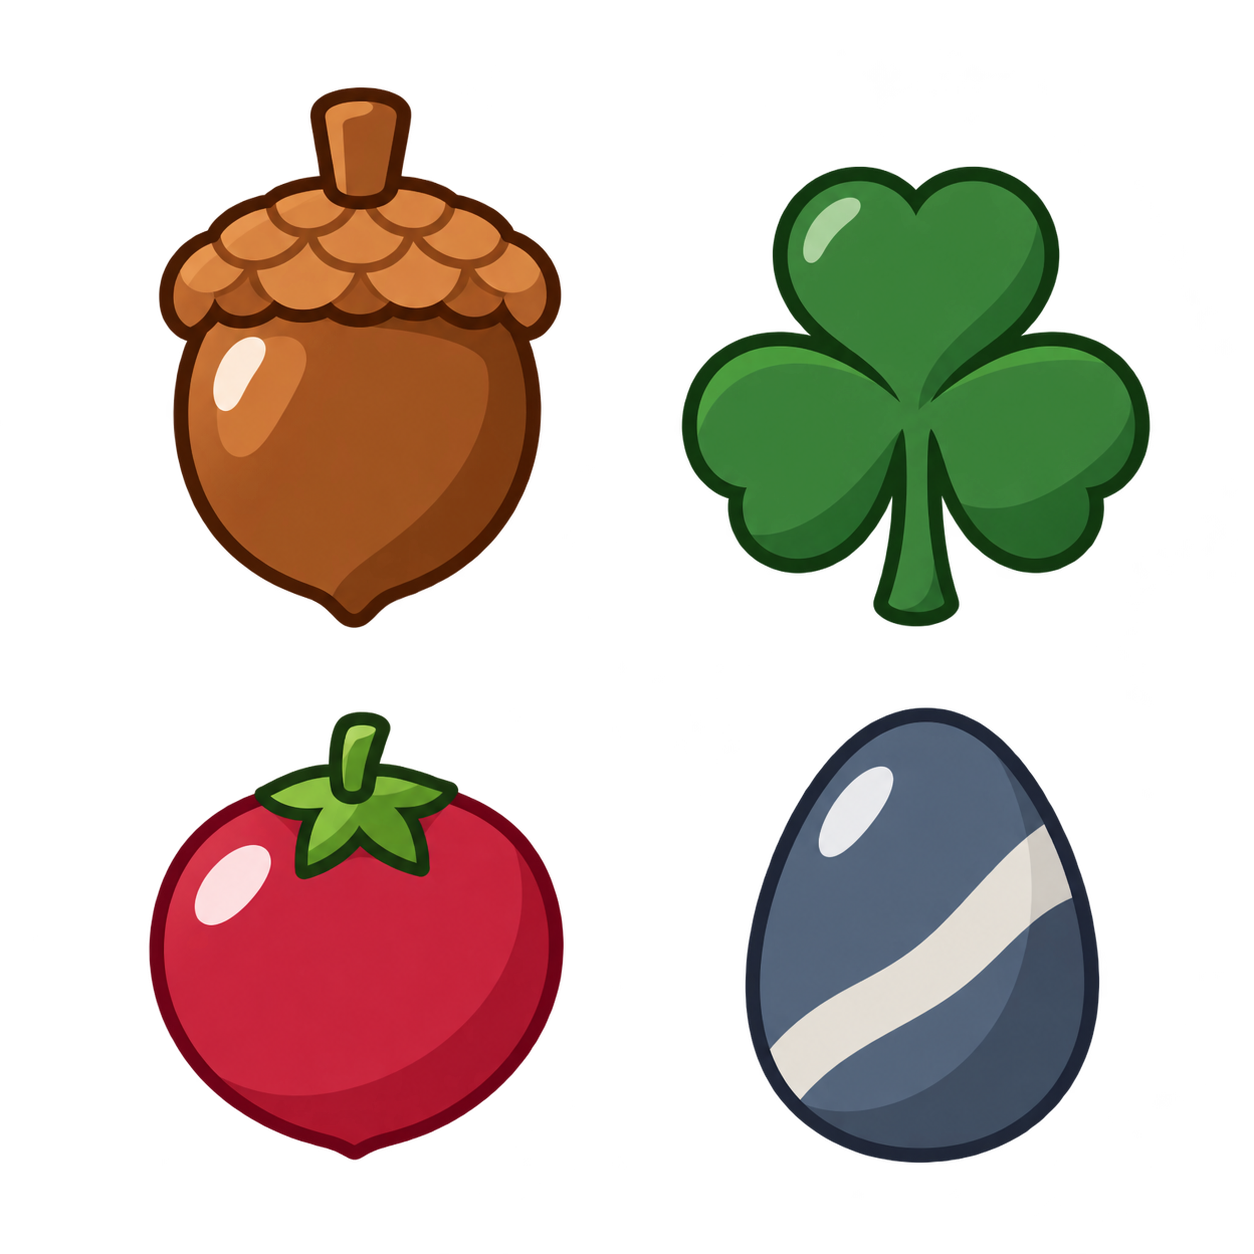
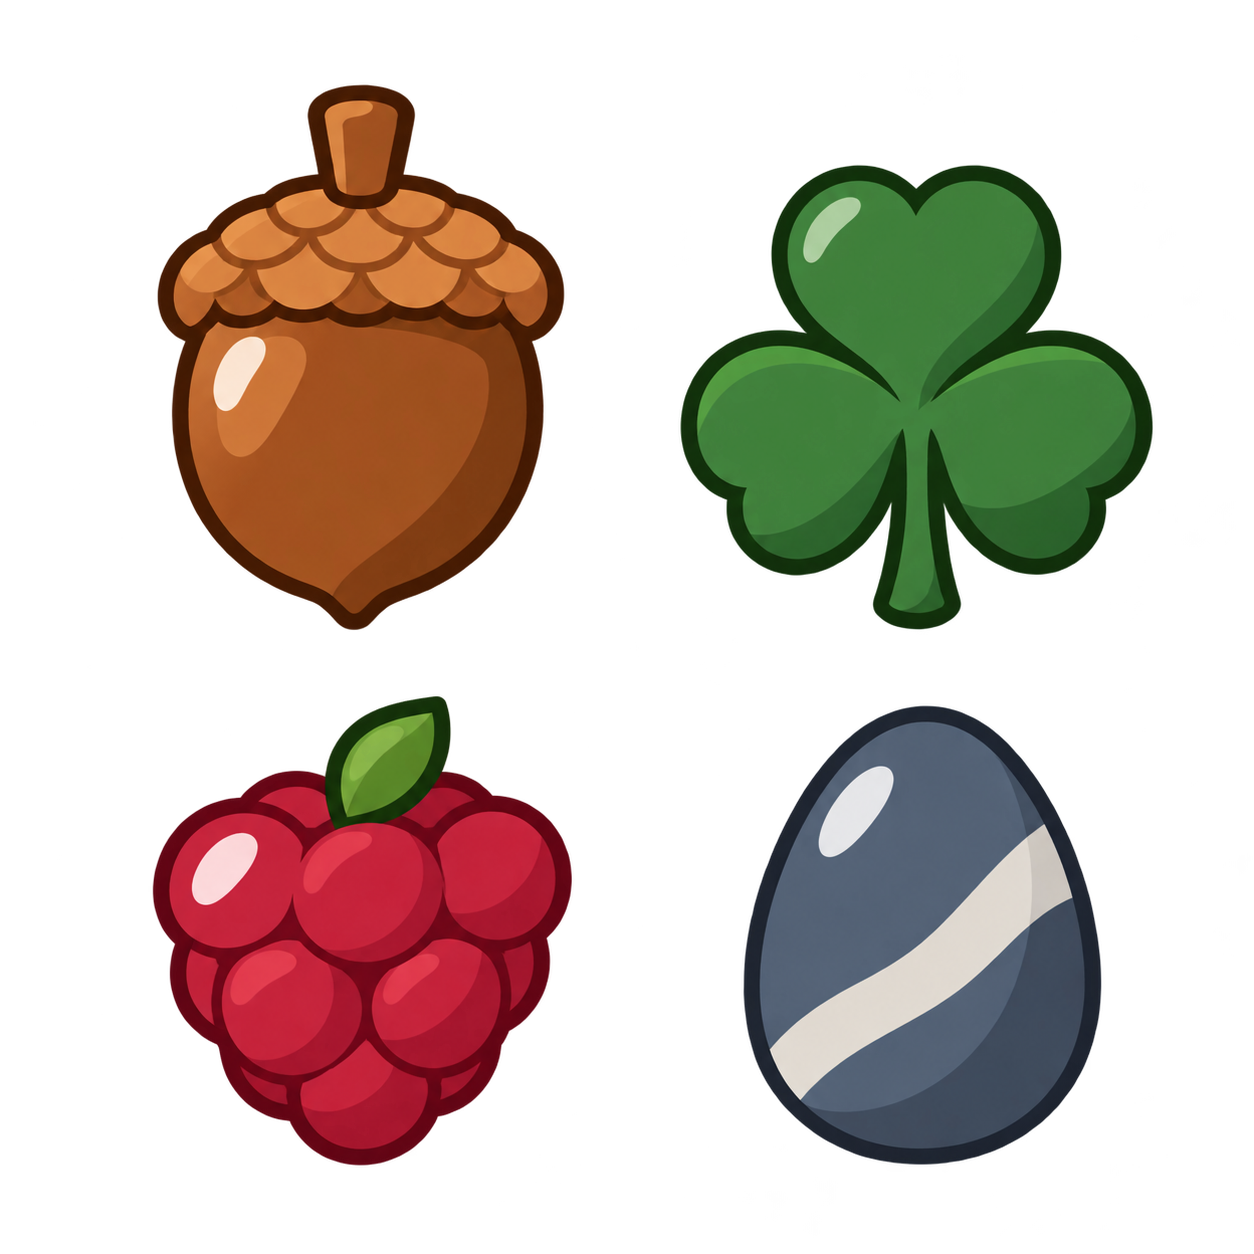
Make Acorn Hand's berry pip read as a raspberry

diff --git a/lib/acorn-hand-crops.ts b/lib/acorn-hand-crops.ts
@@ -3,7 +3,7 @@ export const ACORN_CROPS: Record<string, ([number, number, number, number] | nul
   "vouchers": [[29, 132, 317, 241], [381, 130, 318, 242], [734, 131, 316, 241], [1081, 131, 321, 241], [1432, 131, 317, 241], [29, 509, 317, 238], [382, 507, 317, 239], [734, 506, 315, 240], [1083, 505, 318, 241], [1431, 505, 318, 241]],
   "packs": [[174, 88, 228, 304], [578, 87, 228, 305], [966, 87, 227, 305], [1373, 87, 230, 305], [170, 472, 239, 334], [575, 472, 236, 334], [964, 472, 235, 334], [1368, 472, 237, 334]],
   "items": [[74, 160, 147, 177], [340, 159, 162, 183], [614, 191, 194, 151], [904, 180, 175, 149], [1201, 149, 154, 190], [1476, 150, 152, 189], [1754, 147, 152, 189], [63, 484, 161, 198], [339, 483, 182, 206], [599, 514, 230, 166], [913, 487, 168, 206], [1185, 500, 180, 170], [1458, 521, 177, 156], [1725, 498, 224, 187]],
-  "suits": [[86, 83, 549, 549], [642, 122, 549, 549], [82, 662, 549, 549], [648, 660, 549, 549]],
+  "suits": [[84, 80, 554, 554], [640, 120, 554, 554], [85, 654, 554, 554], [646, 658, 554, 554]],
   "court": [[156, 123, 477, 527], [861, 132, 466, 517], [1559, 135, 493, 515]],
   "charms-0": [[128, 161, 301, 291], [608, 164, 303, 288], [1085, 163, 301, 289], [128, 587, 329, 288], [608, 587, 324, 288], [1086, 588, 307, 287]],
   "charms-1": [[123, 147, 295, 270], [609, 151, 294, 270], [1103, 148, 294, 270], [116, 611, 330, 274], [612, 612, 312, 273], [1090, 611, 302, 272]],

diff --git a/lib/acorn-hand-paint.ts b/lib/acorn-hand-paint.ts
@@ -15,7 +15,8 @@ export function loadAcornPainting(key: string) {
   const image = new Image();
   image.onload = () => { images.set(key, image); revision++; listeners.forEach((fn) => fn()); };
   image.onerror = () => { failed.add(key); revision++; listeners.forEach((fn) => fn()); };
-  image.src = `/art/acorn-hand/${key}.png?v=suits-poses-2`;
+  const version = key === 'suits' ? 'berry-pip-3' : 'suits-poses-2';
+  image.src = `/art/acorn-hand/${key}.png?v=${version}`;
 }
 /** CSS that shows one painted cell as an element's background, stretched to the element, or null until the sheet has loaded. */
 export function acornSprite(key: string, cell: number): { backgroundImage: string; backgroundSize: string; backgroundPosition: string; backgroundRepeat: string } | null {

diff --git a/docs/acorn-hand-suit-prompts.md b/docs/acorn-hand-suit-prompts.md
@@ -38,10 +38,10 @@ The suits on a printed card deck (spade, heart, club, diamond) work because each
 | --- | --- | --- | --- |
 | Top left | Acorn | `#7a4a1e` | Tall, round-bottomed nut with a wide, scalloped cap and a short straight stalk pointing straight up. Mirror-symmetric. |
 | Top right | Clover | `#2f7a33` | Three heart-shaped leaves meeting in the centre (top, lower left, lower right) and a short, thick stem straight down, like a playing-card club. Mirror-symmetric. |
-| Bottom left | Berry | `#b42840` | One plump round berry, slightly heart-shaped at the top, with a small star-shaped leafy cap and a short stalk on top. Mirror-symmetric. One berry, not a cluster. |
+| Bottom left | Berry | `#b42840` | One compact raspberry with a rounded triangular silhouette, seven or eight broad rounded lobes and one small leaf. No smooth tomato globe or star-shaped leafy crown. |
 | Bottom right | Pebble | `#4d5d72` | A smooth, upright egg-shaped stone (taller than wide, about 5 : 6), with one pale band running diagonally across it and a gleam at upper left. |
 
-The four silhouettes must be different enough to tell apart in **greyscale** at 20 px: a tall nut with a cap, a three-lobed club, a round fruit with a star on top and a plain egg.
+The four silhouettes must be different enough to tell apart in **greyscale** at 20 px: a tall nut with a cap, a three-lobed club, a scalloped raspberry and a plain egg.
 
 ### How to use this
 
@@ -65,10 +65,10 @@ The four silhouettes must be different enough to tell apart in **greyscale** at 
 > **Cells, left to right, top row then bottom row:**
 > 1. **Acorn**, warm brown `#7a4a1e` (nut a little lighter, cap a little darker): a tall nut with a rounded bottom ending in a small point, under a wide cap with a scalloped lower edge and three or four simple rows of bumps, and a short, straight, thick stalk pointing straight up. Mirror-symmetric left to right. No curl.
 > 2. **Clover**, moss green `#2f7a33`: three plump heart-shaped leaves meeting in the centre, one up, one lower left, one lower right, with a short, thick stem going straight down, shaped like a playing-card club. Mirror-symmetric. No veins.
-> 3. **Berry**, berry red `#b42840`: ONE plump, round berry, slightly heart-shaped at the top, with a small five-pointed green leafy cap and a tiny stalk on top, and one round white gleam at upper left. Mirror-symmetric. Not a cluster, not a cherry pair, not a strawberry.
+> 3. **Berry**, berry red `#b42840`: ONE compact raspberry, broad rounded shoulders and a slightly narrower rounded bottom. Use only seven or eight LARGE plump rounded lobes, a scalloped outline, one small green leaf and minimal upper-left highlights. The lobes form one aggregate fruit, not a bunch of separate berries. No large leafy star crown, thick green stalk, smooth tomato shape, tiny seeds or speckle.
 > 4. **Pebble**, slate blue-grey `#4d5d72`: a smooth upright egg-shaped river stone, taller than it is wide (about 5 wide to 6 tall), with one soft pale band running diagonally across it from lower left to upper right and a gleam at upper left. No speckle.
 >
-> The four pips must be easy to tell apart even in greyscale at 20 pixels: a nut with a cap, a three-lobed club, a round fruit with a star on top, a plain egg.
+> The four pips must be easy to tell apart even in greyscale at 20 pixels: a nut with a cap, a three-lobed club, a scalloped raspberry, a plain egg.
 
 ### Fix-up prompt
 
@@ -81,7 +81,7 @@ The four silhouettes must be different enough to tell apart in **greyscale** at 
 - [ ] **The squint test:** shrink the image so each pip is about 20 px wide (the sheet about 60 px). Each suit is still instantly recognisable, with no muddy edges.
 - [ ] **The greyscale test:** desaturate it; the four are still easy to tell apart by shape alone.
 - [ ] All four fill about the same area and sit centred in their cells; none is visibly smaller, flatter or off to one side.
-- [ ] Acorn and clover are mirror-symmetric with straight stems (acorn's up, clover's down). The berry is a single berry. The pebble is taller than wide.
+- [ ] Acorn and clover are mirror-symmetric with straight stems (acorn's up, clover's down). The berry is one raspberry with broad rounded lobes and a small leaf. The pebble is taller than wide.
 - [ ] Colours sit close to the inks: `#7a4a1e`, `#2f7a33`, `#b42840`, `#4d5d72`. Acorn brown, not orange; berry red, not pink.
 - [ ] Flat shading with one shade and one highlight; no texture, hatching or veins.
 - [ ] No text, letters, numbers, card shapes or frames.
@@ -251,3 +251,9 @@ Make one sheet per message. Attach the matching calm sheet as the reference, so 
 
 - Measure each sheet's crops from its alpha bounds into `lib/acorn-hand-crops.ts` under the keys `rivals-0-happy`, `rivals-0-sad`, `rivals-1-happy`, `rivals-1-sad`, `rival-armadillo-happy` and `rival-armadillo-sad`. `drawRival` in `lib/acorn-hand-scene.ts` looks a pose sheet up only when its crop key exists, so nothing is requested before then.
 - Check that each pose sits where the calm portrait sits, so the swap during a reaction doesn't jump; bump the cache key in `loadAcornPainting`, record the prompts in `docs/acorn-hand-art.md`, and add a **Changed** entry for **Acorn Hand** in `CHANGELOG.md`.
+
+## Berry readability correction · 17-10-2026
+
+The first simple red fruit still read as a tomato because of its smooth body and star-shaped green cap. The replacement is one compact raspberry with broad rounded lobes, a scalloped edge and a small leaf. The acorn, clover and pebble keep their established visual designs.
+
+The full `suits.png` is replaced, its connected silhouettes remeasured into equal 554px square crop frames, and only the suit-sheet cache version changes to `berry-pip-3`. Source, exact built-in imagegen prompt, alpha bounds and SHA256 are recorded in [`acorn-hand-berry-generation.json`](acorn-hand-berry-generation.json). The separate follow-up prompt mentioned in the user's Claude quote was not present in this chat or repository; this corrective prompt follows the reported tomato problem.

diff --git a/HANDOFF.md b/HANDOFF.md
@@ -155,6 +155,8 @@ Game 34, `/acorn-hand`, a poker-scoring card run in the manner of Balatro. Rules
 
 **Remaining redo assets (16-10-2026).** The seven previously missing required sheets from `docs/acorn-hand-suit-prompts.md` now exist: redrawn `suits.png`, `rivals-0-happy/sad.png`, `rivals-1-happy/sad.png`, and `rival-armadillo-happy/sad.png`. The document now has a delivery-status table for all ten required assets. Their measured crops are registered; suit frames are equal squares and rival pose frames share calm aspects/baselines. Cache version `suits-poses-2`. Exact prompts, sources, corrections, hashes and alpha measurements: `docs/acorn-hand-suits-poses-generation.json`. All thirteen triplets and tiny colour/greyscale pips were reviewed through the actual renderer. The optional large suit sheet is unnecessary. PR #50's standalone voucher/nuts/counters still need runtime integration; preserve that distinction.
 
+**Berry pip correction (17-10-2026).** The smooth round berry with a star-shaped green cap looked like a tomato. `suits.png` now uses one scalloped raspberry with broad lobes and a small leaf. All four measured frames remain equal squares (554px), and only the suit-sheet cache version is `berry-pip-3`. Exact prompt/provenance/bounds: `docs/acorn-hand-berry-generation.json`. The pip was reviewed at20px in colour/greyscale and in real desktop/phone berry hands. Previous suit-generation records remain historical; the berry-specific record describes the current sheet.
+
 ## Midnight Kitchen · 15-10-2026
 
 Game 33, `/kitchen` (**Ember & Clover: Midnight Kitchen**), is merged on main (PR #39). Dora, Enzo, Pip and Ember run a moonlit bakery: orders move from new to prepared, baked and served, one chef a job, with twelve timed shifts, five recipes, a rush bell, upgrades and an untimed cozy mode. Rules and numbers are in [`docs/midnight-kitchen.md`](docs/midnight-kitchen.md), the painted sheets and prompts in [`docs/kitchen-art.md`](docs/kitchen-art.md).

diff --git a/docs/acorn-hand-art.md b/docs/acorn-hand-art.md
@@ -94,3 +94,9 @@ The seven remaining required sheets from `acorn-hand-suit-prompts.md` are genera
 Reviewed the four pips at 20, 35 and 70px in colour and greyscale, plus all 13 calm/happy/sad triplets through the actual Canvas renderer at 160 × 120px. The larger ace pip works without the optional detailed `suits-large.png`. The voucher, acorn and plaque paintings were wired in afterwards, on 17-10-2026 (see above).
 
 Validation for the suit/pose pass: typecheck, targeted oxlint, production build and the full Acorn Hand browser suite passed, including card motion, rival reactions, reduced motion, six layouts, failed-image fallback and retry. The renderer gallery reported no page errors.
+
+### Raspberry pip correction · 17-10-2026
+
+Replaced the tomato-like round berry with a compact raspberry: broad rounded lobes, a scalloped silhouette and a single small leaf. The full transparent 1254 × 1254 `suits.png` preserves the other three suits' visual designs. Connected alpha bounds were remeasured from the full sheet to avoid importing stray fragments across nominal cell edges; all four runtime frames are equal 554px squares. Only `suits` uses the new `berry-pip-3` cache version. Exact built-in imagegen prompt, input/output hashes, selected source, bounds and crops: [`acorn-hand-berry-generation.json`](acorn-hand-berry-generation.json). Reviewed through the renderer at 20/35/70px in colour and greyscale, and on desktop and phone hands containing berry cards.
+
+Validation: typecheck, targeted oxlint, production build and the full Acorn Hand browser suite passed, including six layouts, card/rival motion, saves, painted currency/plaques and image failure/retry. The desktop/phone berry-card review reported no page errors.

diff --git a/CHANGELOG.md b/CHANGELOG.md
@@ -8,6 +8,10 @@ Notable changes to Dora & Enzo's Arcade, newest first. Every push to `main` depl
 
 - **Acorn Hand**: nuts are painted acorns everywhere, in your purse, the pile beside the rival, the nuts that fly to the purse and the round markers, instead of the chestnut emoji; chips and mult sit on painted wooden plaques; and the Squirrel Hoard voucher shows its squirrel guarding a jar of acorns. If the paintings can't load, the old emoji and plain boxes stand in.
 
+### Fixed
+
+- **Acorn Hand**: the berry suit now reads as a raspberry, with rounded lobes and a small leaf, instead of a tomato. Refreshed the artwork cache and measured crops so the new pip appears cleanly on small cards.
+
 ## 16-10-2026
 
 ### Added
